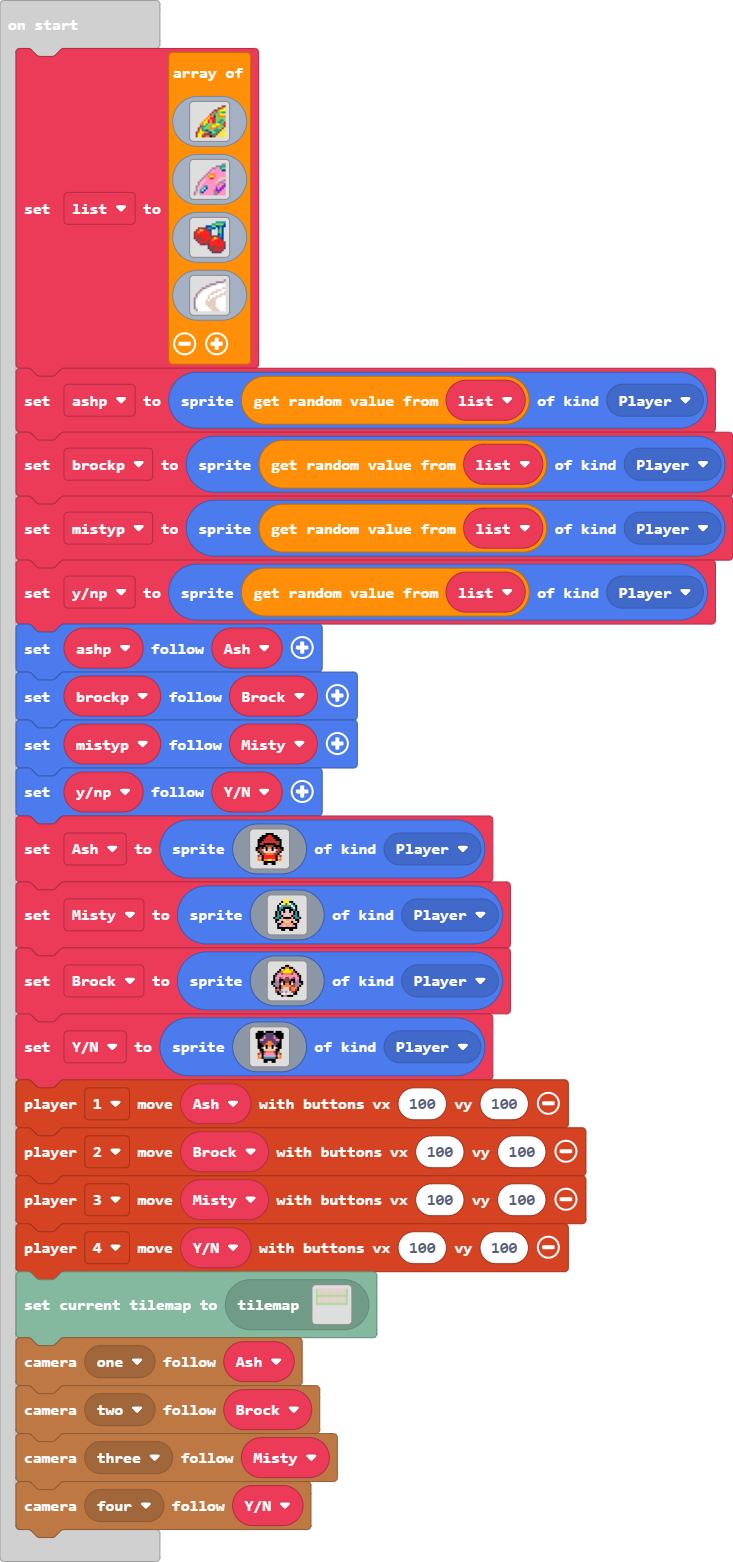
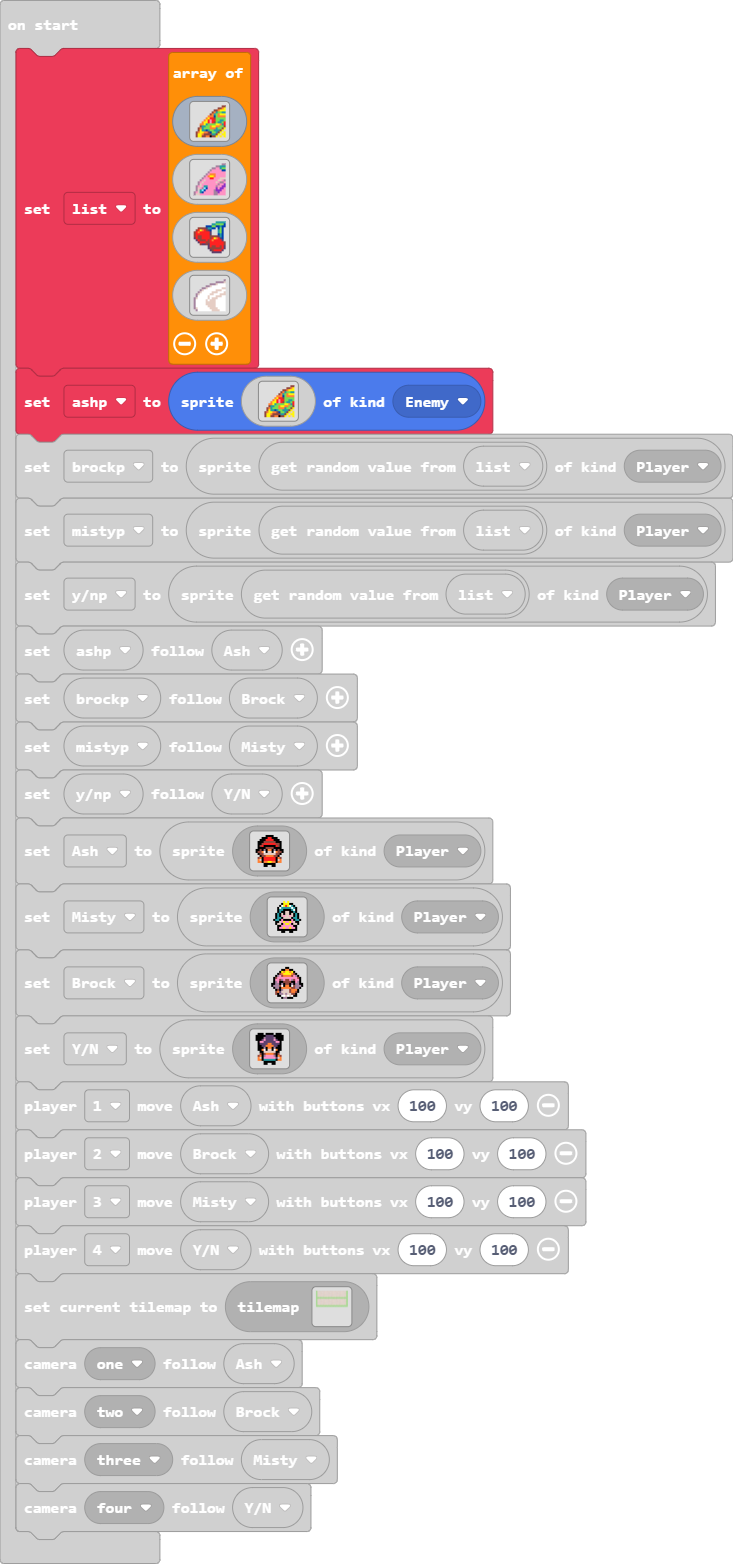
Update main.blocks, main.ts

diff --git a/main.ts b/main.ts
@@ -261,7 +261,24 @@ img`
     . b 1 1 1 1 1 1 1 d d d d 1 1 1 
     `
 ]
-let ashp = sprites.create(list._pickRandom(), SpriteKind.Player)
+let ashp = sprites.create(img`
+    . . . . . . . . . . . . . . e e 
+    . . . . . . . . . . . . e e 4 5 
+    . . . . . . . . . . e e 4 5 5 5 
+    . . . . . . . . . e 4 6 7 7 6 6 
+    . . . . . . . . e 4 6 7 4 5 5 5 
+    . . . . . . . 4 4 4 8 7 4 4 4 4 
+    . . . . . . 4 5 2 2 e 7 7 7 7 7 
+    . . . . . 4 5 2 3 2 2 7 7 6 6 7 
+    . . . . 4 5 5 2 3 2 e 7 6 6 7 2 
+    . . . 4 4 5 6 7 7 7 7 5 5 4 6 2 
+    . . . e 6 6 7 7 4 5 5 4 4 7 7 e 
+    . . e 4 6 7 7 7 4 4 4 6 7 7 e 5 
+    . . e 5 6 6 8 6 7 7 6 6 6 e 5 d 
+    . e 4 5 5 4 4 e 8 7 7 6 e 5 d 5 
+    . e 5 5 4 e e e e 6 6 e 5 d 5 5 
+    . e 5 5 e e 4 4 f e e 5 d 5 d 5 
+    `, SpriteKind.Enemy)
 let brockp = sprites.create(list._pickRandom(), SpriteKind.Player)
 let mistyp = sprites.create(list._pickRandom(), SpriteKind.Player)
 let ynp = sprites.create(list._pickRandom(), SpriteKind.Player)
